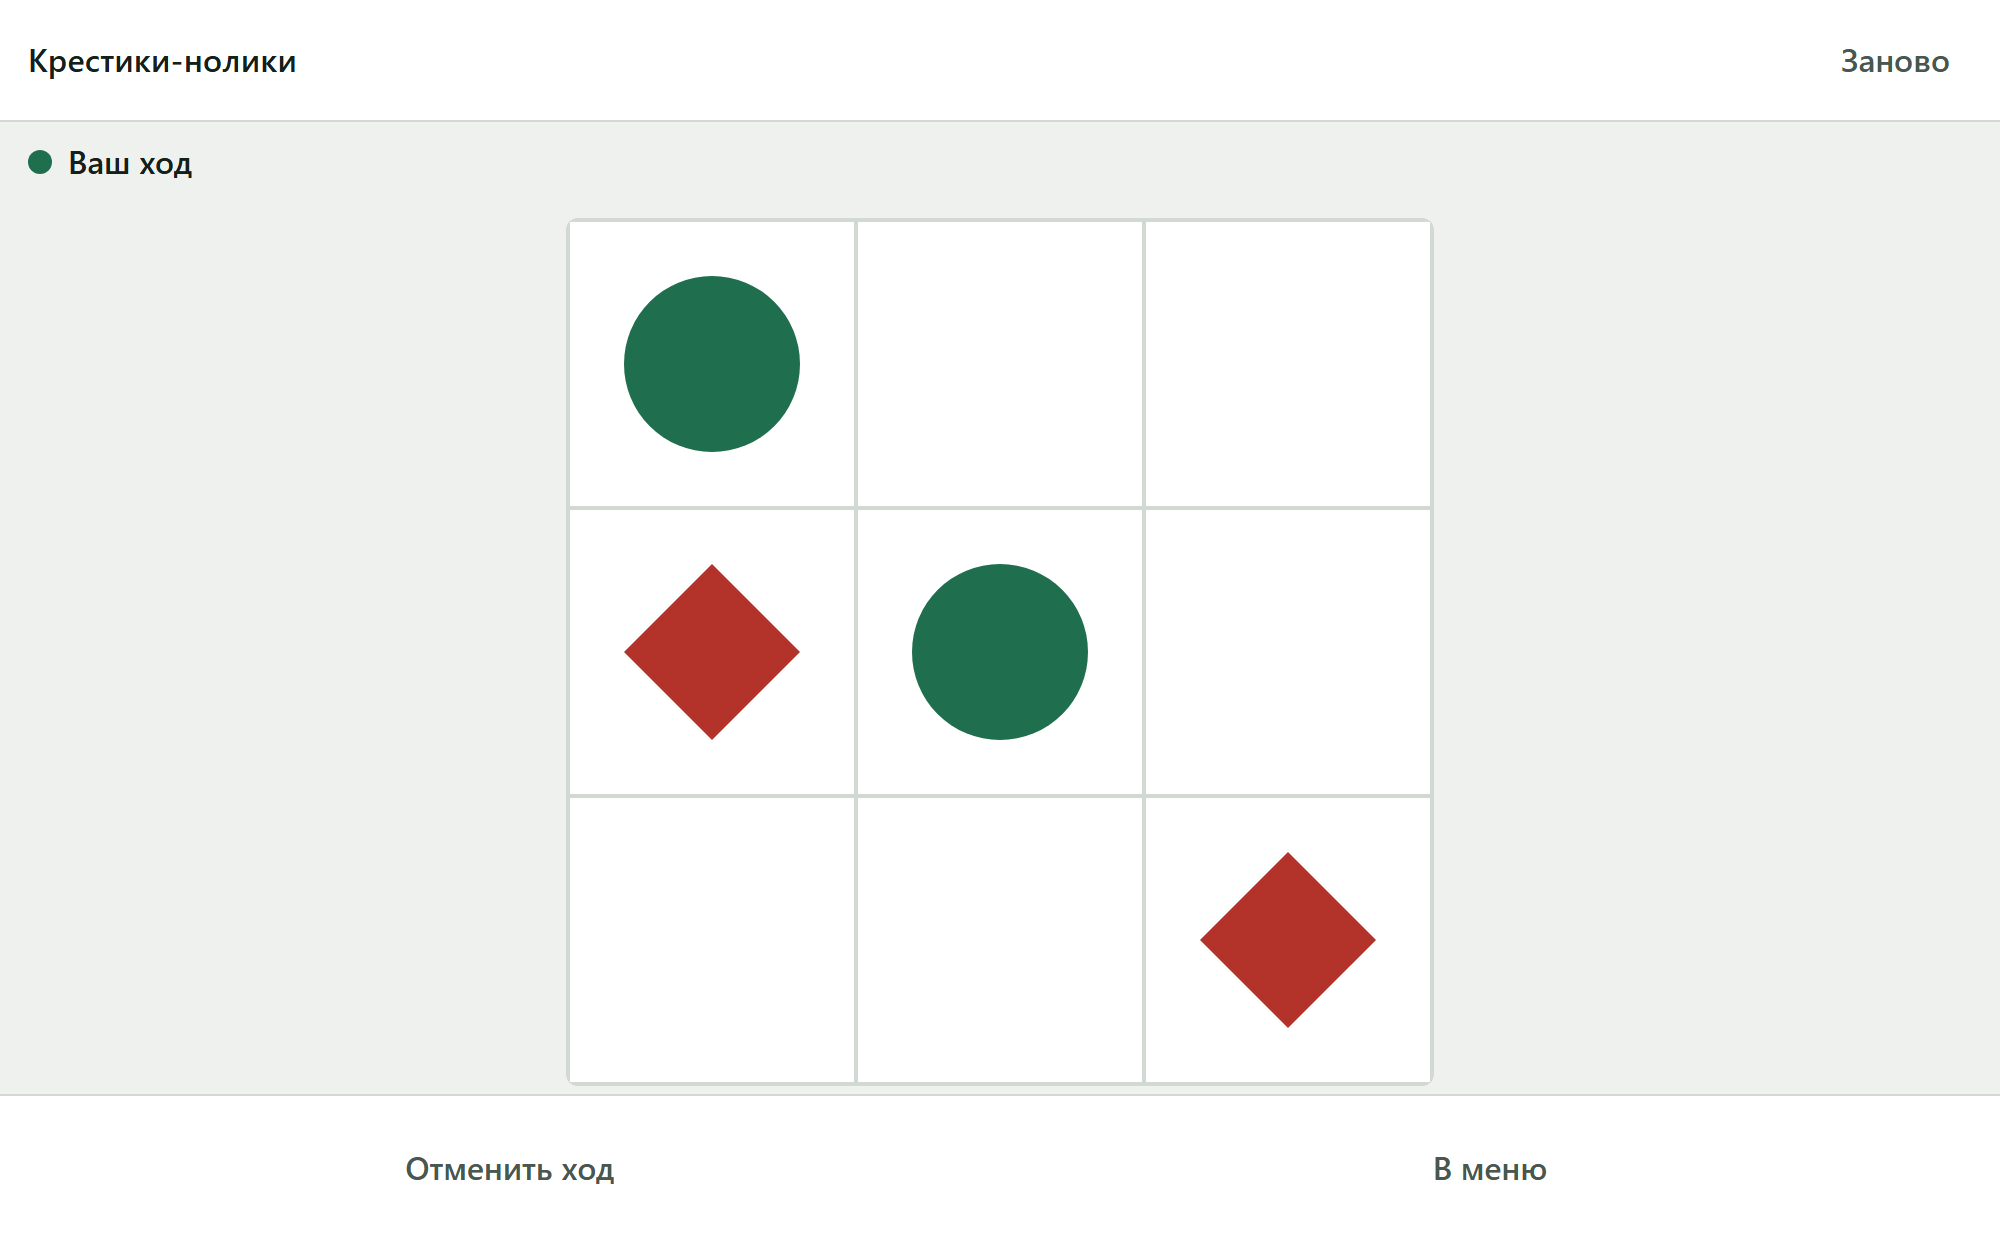
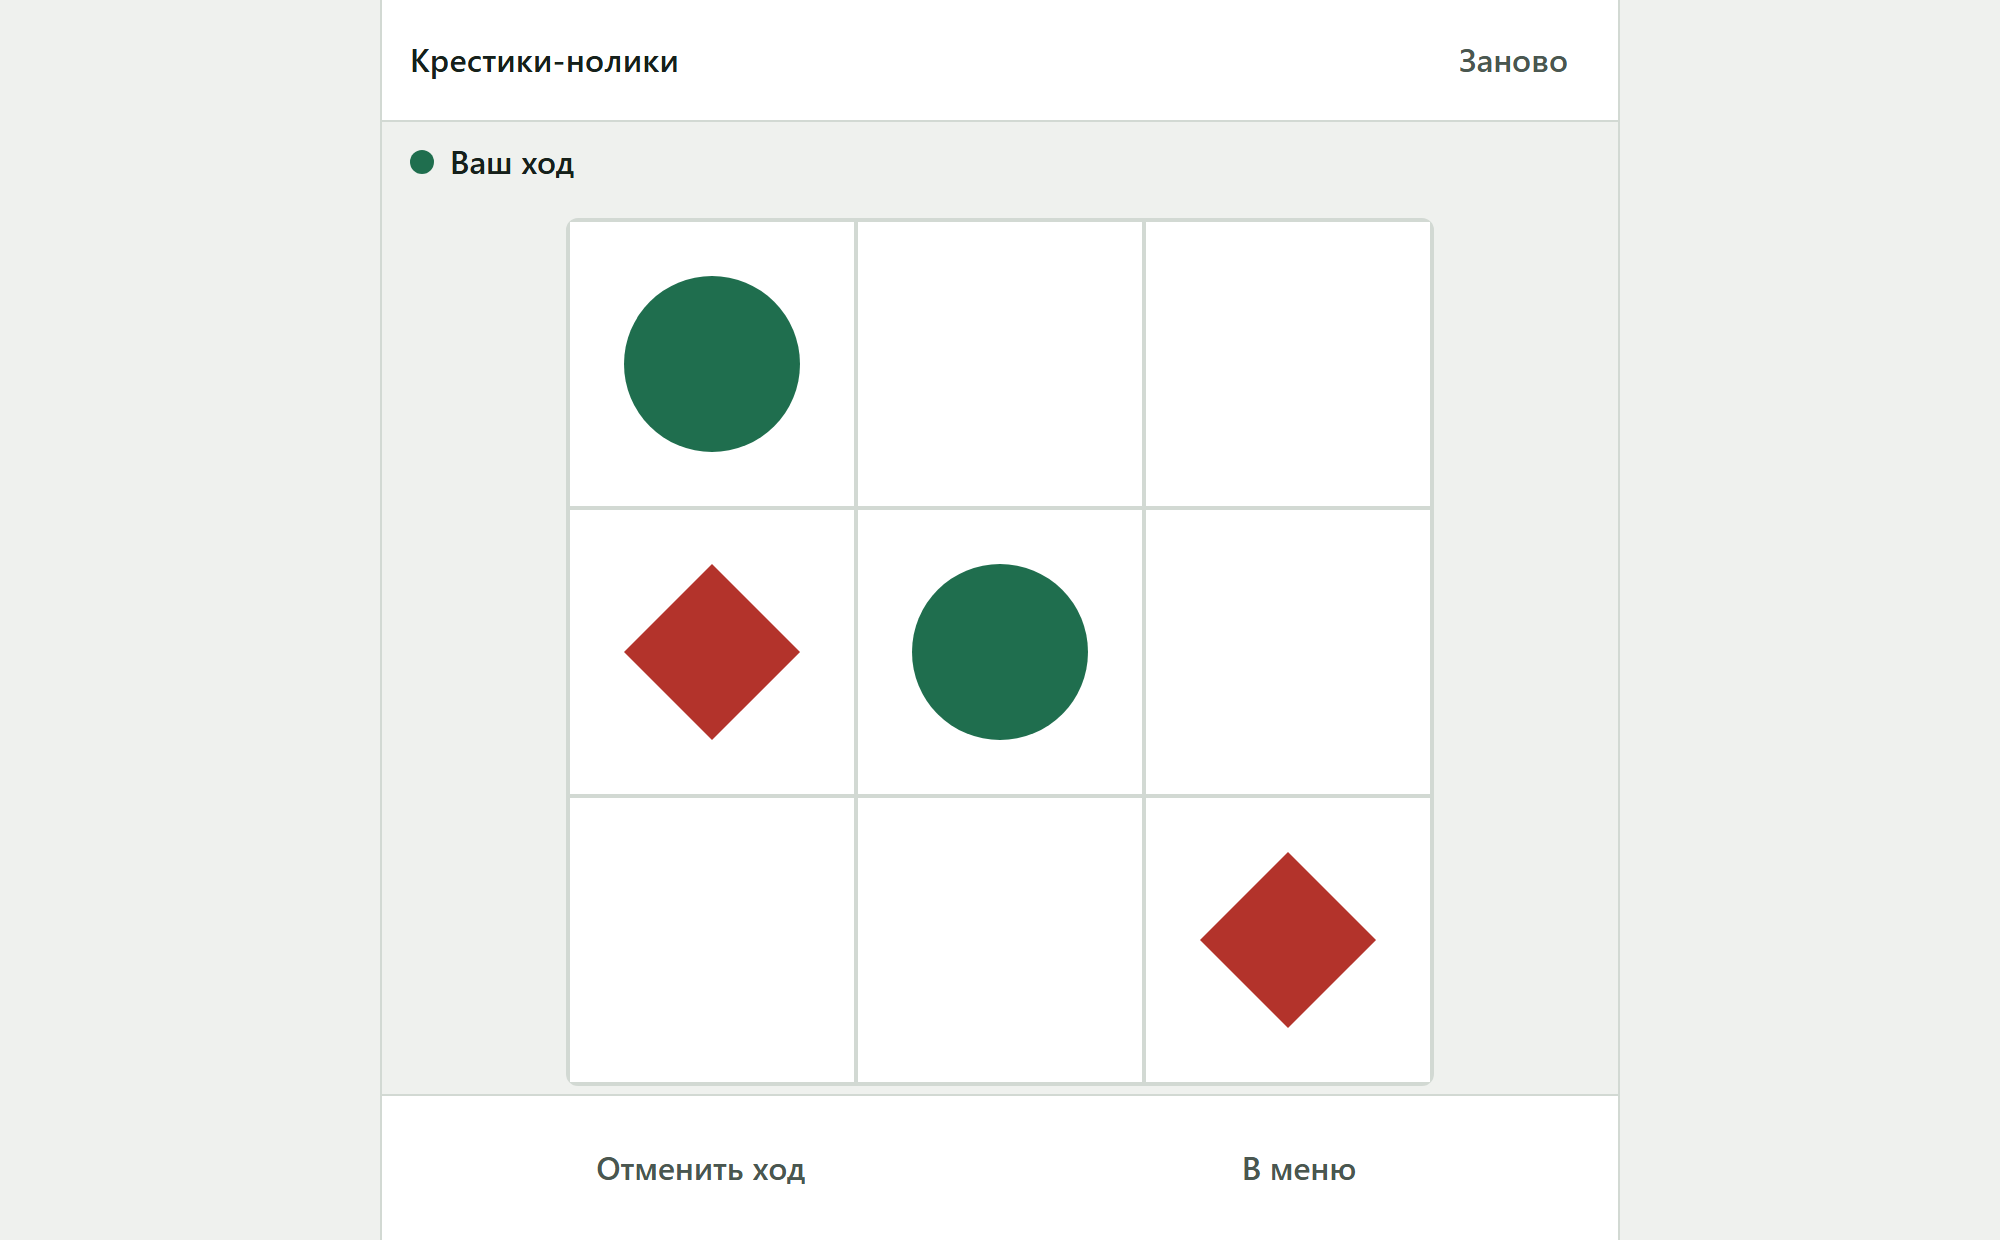
Промо-баннер, скриншоты под витрину VK и колонка фиксированной ширины
- tools/banner.{html,cjs} — сниппет 1120x630 и широкая шапка 1590x400
- скриншоты 1200x600 ровно под требования витрины VK
- ui: игра живёт в колонке 620px и центрируется, а не растягивает
  шапку и кнопки по всей ширине монитора — так её видят в VK на компьютере
- баннер: .board div красил и сами фигуры, ограничил прямыми потомками

diff --git a/tools/banner.html b/tools/banner.html
@@ -1,0 +1,133 @@
+<!doctype html>
+<html lang="ru">
+<head>
+<meta charset="utf-8">
+<title>Промо-баннер</title>
+<style>
+  /*
+   * Макет большого сниппета. Рендерится Playwright в PNG нужного размера.
+   * Всё в тех же токенах, что игра и иконка, — сниппет должен читаться
+   * как часть одной серии, а не как отдельная реклама.
+   */
+  * { box-sizing: border-box; margin: 0; }
+
+  html, body {
+    width: 100%;
+    height: 100%;
+    overflow: hidden;
+  }
+
+  body {
+    display: flex;
+    align-items: center;
+    gap: 6%;
+    padding: 0 7%;
+    background: linear-gradient(160deg, #247856 0%, #164c36 100%);
+    color: #eaf4ee;
+    font-family: "Segoe UI", system-ui, -apple-system, sans-serif;
+  }
+
+  .text {
+    flex: 1 1 auto;
+    min-width: 0;
+  }
+
+  h1 {
+    font-size: clamp(28px, 5.2vw, 78px);
+    line-height: 1.04;
+    letter-spacing: -0.02em;
+    font-weight: 700;
+    text-wrap: balance;
+  }
+
+  .slogan {
+    margin-top: 3%;
+    font-size: clamp(14px, 1.9vw, 34px);
+    color: #b9d8c8;
+    font-weight: 400;
+  }
+
+  .features {
+    margin-top: 5%;
+    display: flex;
+    flex-wrap: wrap;
+    gap: 0.6em 1.4em;
+    font-size: clamp(11px, 1.7vw, 24px);
+    color: #8fc0a7;
+  }
+
+  .features span::before {
+    content: "";
+    display: inline-block;
+    width: 0.42em;
+    height: 0.42em;
+    border-radius: 50%;
+    background: #e8756a;
+    margin-right: 0.55em;
+    vertical-align: 0.1em;
+  }
+
+  /* --- поле справа: та же композиция, что на иконке --- */
+
+  .board {
+    flex: 0 0 auto;
+    display: grid;
+    grid-template-columns: repeat(3, 1fr);
+    aspect-ratio: 1;
+    height: 78%;
+    gap: 2px;
+    background: rgba(255, 255, 255, 0.16);
+    padding: 2px;
+    border-radius: 4px;
+  }
+
+  /* только прямые потомки — иначе правило перебивает цвет самих фигур */
+  .board > div {
+    background: rgba(9, 32, 22, 0.28);
+    display: grid;
+    place-items: center;
+  }
+
+  .mark {
+    width: 58%;
+    height: 58%;
+  }
+
+  .o {
+    border-radius: 50%;
+    border: 0.42vw solid #eaf4ee;
+    box-sizing: border-box;
+    width: 56%;
+    height: 56%;
+  }
+
+  .x {
+    background: #e8756a;
+    clip-path: polygon(50% 0%, 100% 50%, 50% 100%, 0% 50%);
+  }
+</style>
+</head>
+<body>
+  <div class="text">
+    <h1>Крестики-нолики и пять в ряд</h1>
+    <div class="slogan">Классика на двоих или против бота</div>
+    <div class="features">
+      <span>Три уровня сложности</span>
+      <span>Игра вдвоём на одном телефоне</span>
+      <span>Без регистрации</span>
+    </div>
+  </div>
+
+  <div class="board">
+    <div><div class="mark o"></div></div>
+    <div></div>
+    <div><div class="mark x"></div></div>
+    <div></div>
+    <div><div class="mark o"></div></div>
+    <div></div>
+    <div><div class="mark x"></div></div>
+    <div></div>
+    <div><div class="mark o"></div></div>
+  </div>
+</body>
+</html>

diff --git a/packages/ui/src/ui.css b/packages/ui/src/ui.css
@@ -22,10 +22,26 @@ body {
   -webkit-user-select: none;
 }
 
+/*
+ * Игра живёт в колонке фиксированной ширины. На телефоне она занимает
+ * весь экран, на десктопе и в iframe ВКонтакте — центрируется, вместо того
+ * чтобы растягивать шапку и кнопки по всей ширине монитора.
+ */
 #app {
   height: 100%;
+  width: 100%;
+  max-width: 620px;
+  margin: 0 auto;
   display: flex;
   flex-direction: column;
+  background: var(--paper);
+  border-inline: 1px solid var(--line);
+}
+
+@media (max-width: 640px) {
+  #app {
+    border-inline: 0;
+  }
 }
 
 /* --- экраны: ровно один виден --- */
